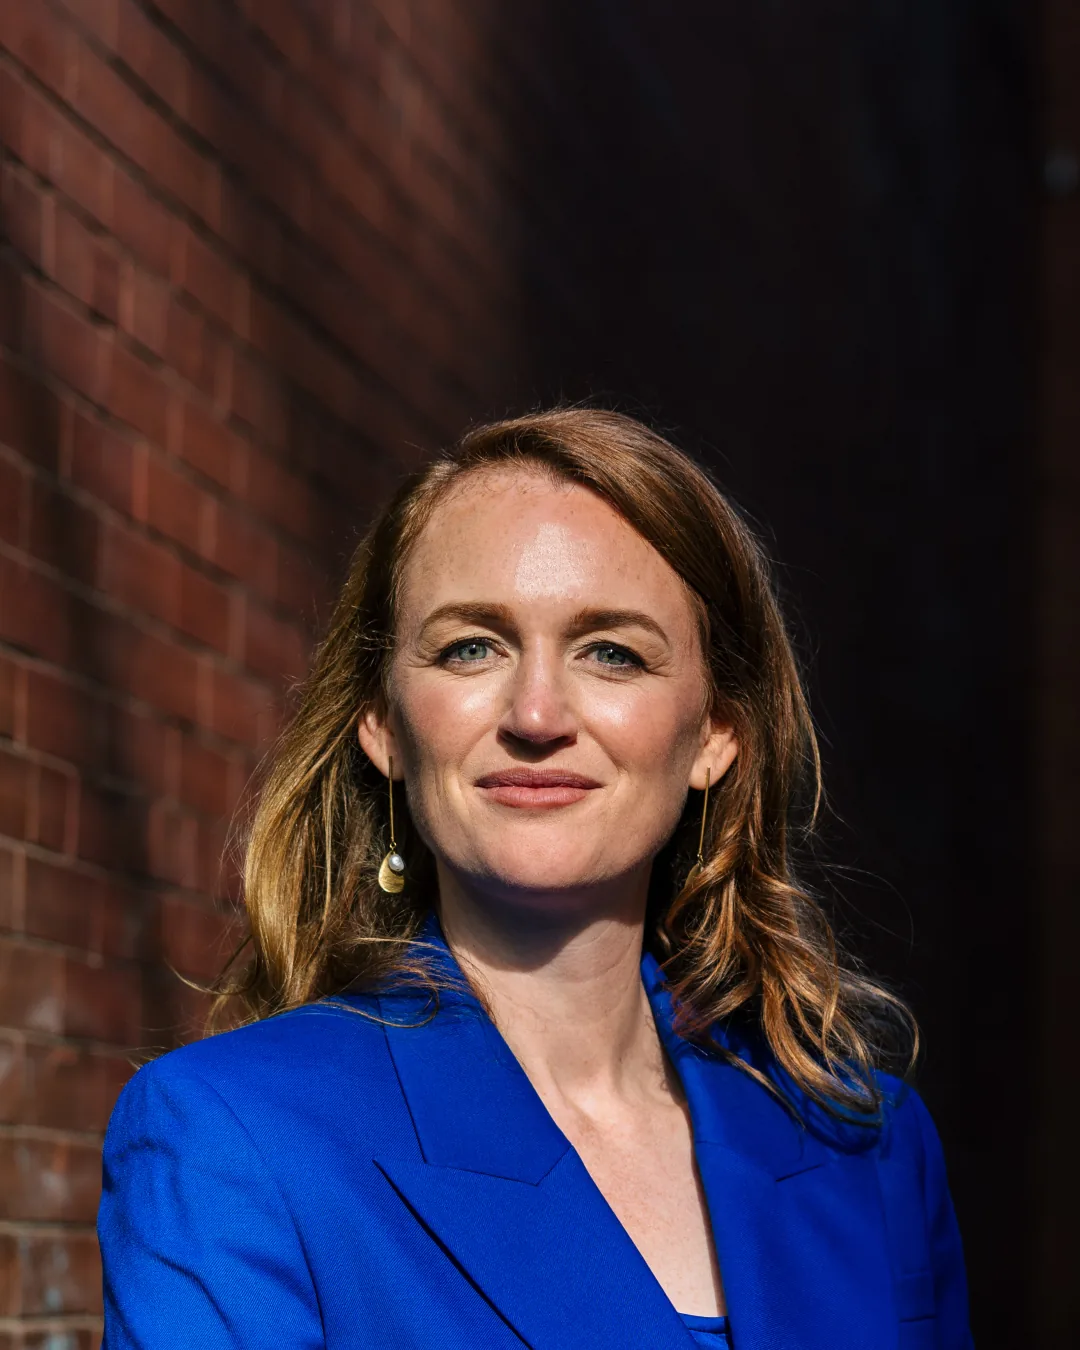
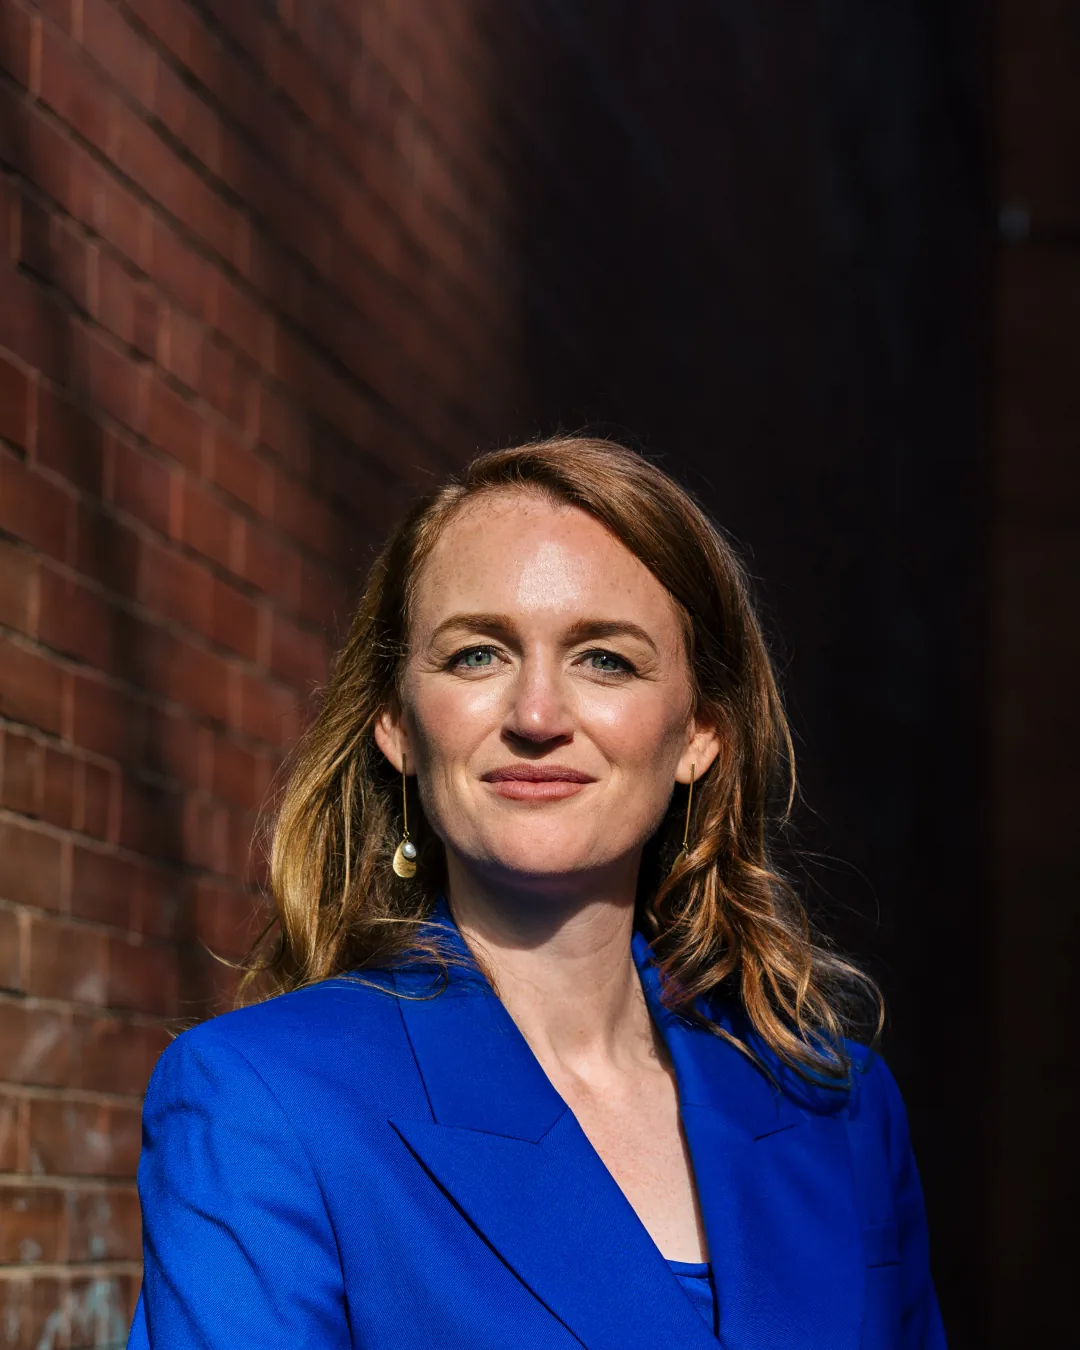
Team portraits: Molly Kinder's and Palak Shah's heads 10% smaller

diff --git a/breakwater-webflow/BUILD-SHEET.md b/breakwater-webflow/BUILD-SHEET.md
@@ -654,6 +654,8 @@ The client noticed the heads in the team grid were different sizes (the old crop
 
 The rule, kept in `tools/portraits.py` (face box and landmarks from `tools/face-landmarks.swift`, macOS Vision): the head measure is the mean of the face box width and the eye-to-chin distance / 0.708, and the 4:5 frame is that measure / 0.315 wide, so every face is about 340 px across in the 1080 x 1350 file. The frame is centred on the face horizontally and sits 0.15 head measures above the face box centre, which puts the whole head (hair included) in the middle band the cards show and stops hair being clipped at the card's top edge. 0.315 is as loose as the photos allow: Mayu's and Palak's landscape shots have little room above the head. Where the frame runs past the top of the photo, the out-of-focus background is stretched upward and softened to fill it: Mayu (top 17% of the file), Palak (3.5%) and Diana (1.3%). None of that shows in the cards, only at the top of the pop-up photo. Files are WebP quality 82, 59 to 134 KB, in `assets/people/` under the same names. A new person's portrait should go through the same script so the head matches.
 
+Molly's and Palak's heads were then taken down a further 10% at Max's request (they still read as bigger than the rest, mostly hair and glasses): their head measure is scaled by 1.1 in the script's tweaks (`"s": 1.1`), which also raises Palak's extended background to the top 8% of her file. Their site assets are `person-molly-kinder-v4.webp` and `person-palak-shah-v4.webp`.
+
 **Webflow:** the seven files are site assets `person-<slug>-v3.webp`, set on the seven core team People items' Photo fields (alt text is the person's name) and published to staging on 17 November 2026. The older `person-<slug>.webp` and `person-palak-shah-2.webp` assets are no longer used by any item.
 
 ## Where to change things later
